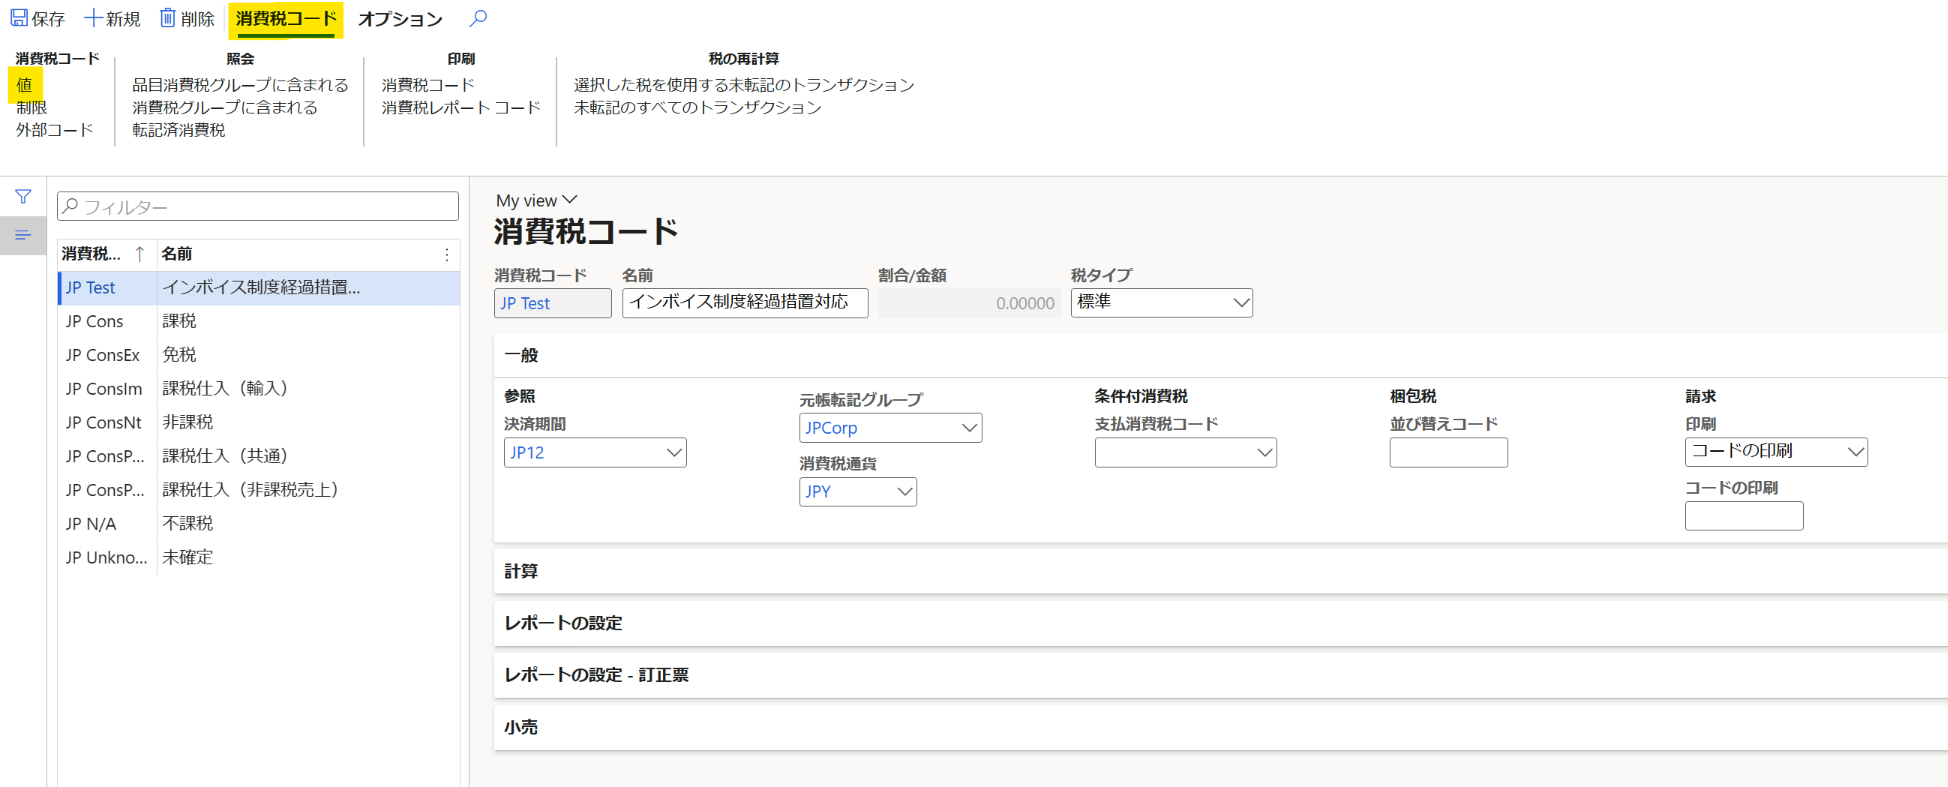
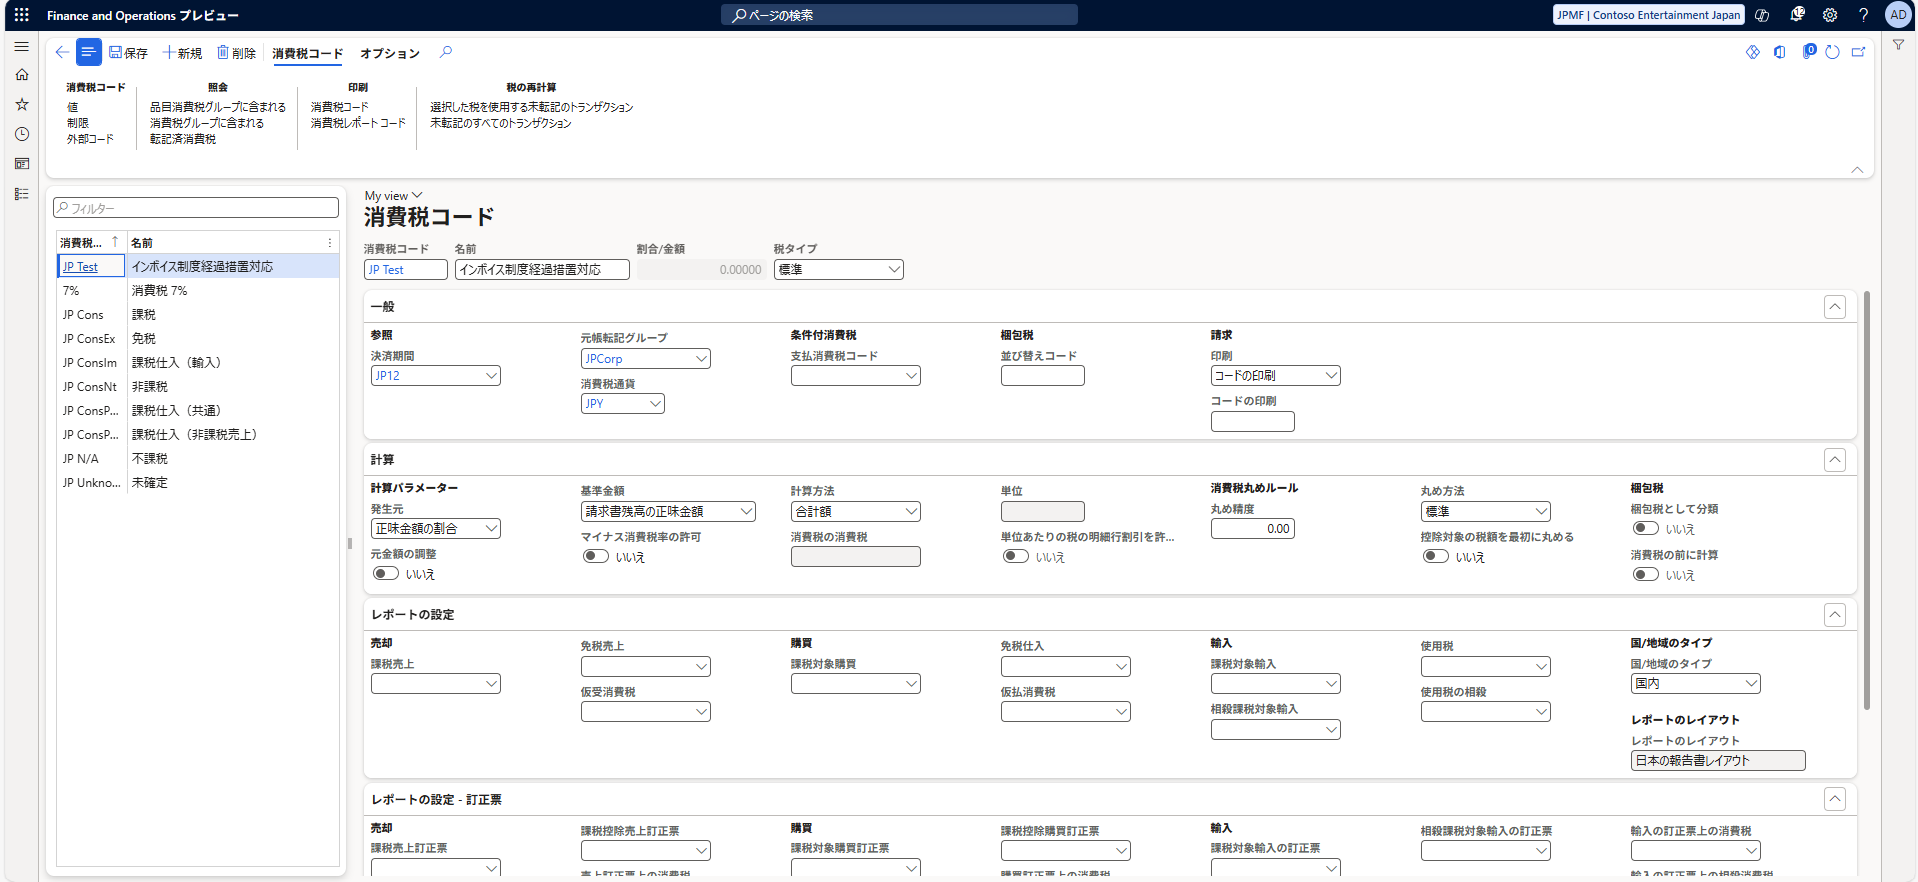
Merge pull request #30 from jpd365erpsup/new-release-27269641783-34
Sync from blog-draft@746fff8

Pull request: Sync from blog-draft@746fff8
Automated sync from blog-draft (commit 746fff8cb18f7dbd5c4fcf70179e55e31ce5ceba). Public-safety scan passed.

diff --git a/articles/FinOps-Finance/new-invoicing-system-requirements-transitional-measures.md b/articles/FinOps-Finance/new-invoicing-system-requirements-transitional-measures.md
@@ -1,6 +1,6 @@
 ---
 title: 適格請求書等保存方式 (インボイス制度) における経過措置の対応方法について
-date: 2023-02-15
+date: 2025-06-09
 tags:
   - FinOps-Finance
   - Japan localization
@@ -9,32 +9,37 @@ tags:
 disableDisclaimer: false
 ---
 
-こんにちは、Dynamics ERP サポートチームの尾崎です。  
+こんにちは、Dynamics ERP サポートチームの木村です。  
 この記事では、 2023 年 10 月 1 日より開始される適格請求書等保存方式 (インボイス制度) において生じる
 免税事業者などに対する経過措置について Dynamics 365 Finance and Operations (D365FO) における登録方法をご紹介します。
 こちらの記事でご紹介する登録方法では消費税コードに非控除割合を設定することで、経過措置期間中の仕入税額控除とみなすことのできる割合を管理します。非控除割合を登録していただくことで、非控除分の金額が費用科目として転記されるようになります。
 
 なお制度の詳細については国税庁ホームページをご確認ください。
 [No.6498 適格請求書等保存方式（インボイス制度）](https://www.nta.go.jp/taxes/shiraberu/taxanswer/shohi/6498.htm)
+[国税庁 インボイス制度 特設サイト](https://www.nta.go.jp/taxes/shiraberu/zeimokubetsu/shohi/keigenzeiritsu/invoice.htm)
 
 <!-- more -->
+## 更新履歴
+2023 年 2 月 15 日 : ブログ公開しました。  
+2025 年 6 月 9 日 : 最新バージョンでの検証及び、手順など追記しました。
 
 ## 検証に用いた製品・バージョン
-Dynamics 365 Finance and Operations
-Application version: 10.0.31
-Platform version: PU 55
+Dynamics 365 Finance and Operations      
+Application version : 10.0.43
+Platform version : PU 67
+Legal entity : JPMF
 
 ## 消費税コードの設定
-1. 税金 > 間接税 > 消費税 > 消費税コード を起動します。
-2. 非控除割合を設定するためのの消費税コードを新規作成します。
-3. コード、名称、決済期間、元帳転記グループなどに任意の値を登録します。
-4. 消費税コード > 値 を起動します。
-
+1. [税] > [間接税] > [消費税] > [消費税コード] を順に押下する
+2. 非控除割合を設定するためのの消費税コードを新規作成する
+3. コード、名称、決済期間、元帳転記グループなどに任意の値を登録する  
 ![](./new-invoicing-system-requirements-transitional-measures/new-invoicing-system-requirements-transitional-measures1.png)
+
+4. [消費税コード] > [値] を順に押下する
+![](./new-invoicing-system-requirements-transitional-measures/new-invoicing-system-requirements-transitional-measures2.png)
 
 5. 仕入税額とみなすことのできない割合を非控除に登録します。
 
-![](./new-invoicing-system-requirements-transitional-measures/new-invoicing-system-requirements-transitional-measures2.png)
 
 6. 登録した消費税コードを呼出可能にするため、消費税グループおよび品目消費税グループにおいて追加設定します。
 